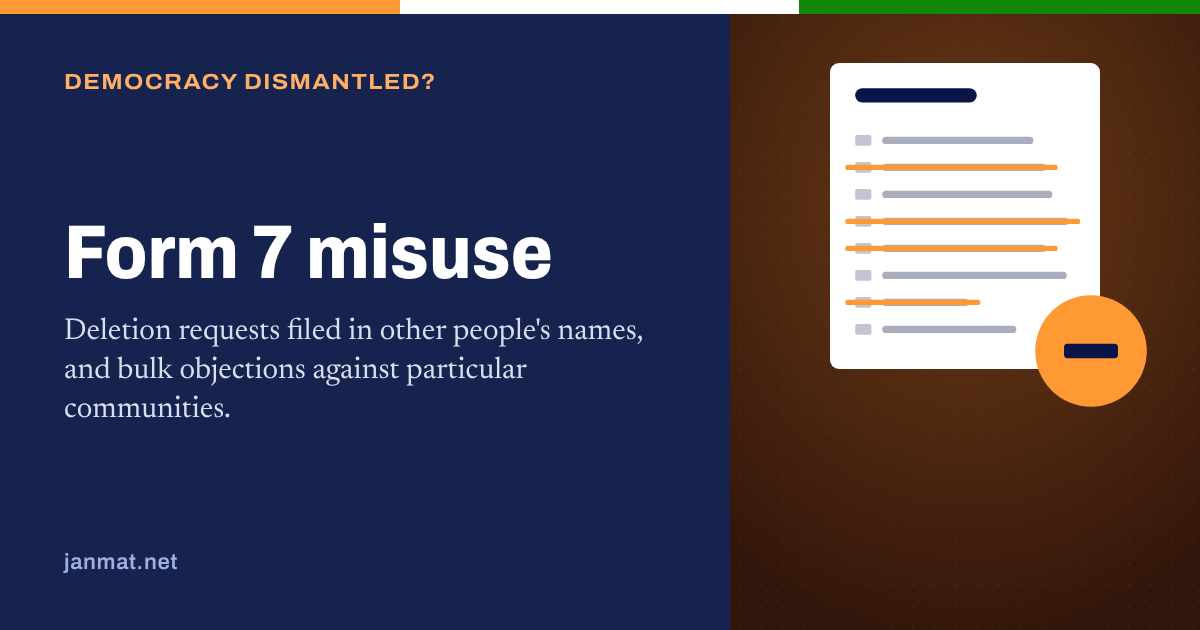
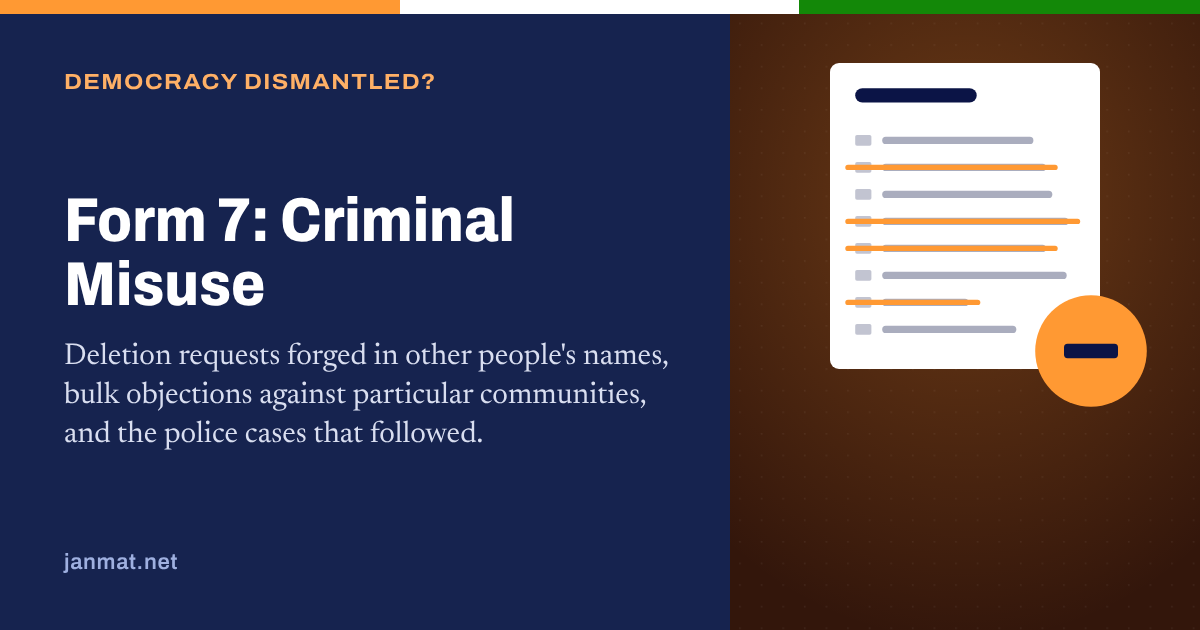
Form 7 page: rename to 'Form 7: Criminal Misuse', add 17 reports
New cases: Bengaluru and Karnataka (FIRs in Jayanagar and Malleshwaram,
CEO action, BJP/JD(S) response), Godda, Jharkhand (BLA arrested),
Rajasthan (Gehlot's pre-filled Form 7 allegation).
Adds reports to Assam, Uttarakhand, Telangana, Gujarat and background.
Card title renamed in 12 languages; new preview image.

Claude-Session: https://claude.ai/code/session_01TnpNPnMkABTeQRySWwLX22

Changed region(s): [[0.0308, 0.5127, 0.555, 0.7238], [0.0308, 0.3016, 0.4625, 0.4825]]

diff --git a/js/form7-data.js b/js/form7-data.js
@@ -36,14 +36,49 @@ window.CASES = [
     ]
   },
   {
+    id: "karnataka-2026",
+    place: "Bengaluru and Karnataka",
+    election: "Special Intensive Revision, October 2026",
+    summary: "About 91,000 Form 7 applications reached Karnataka's election office between mid-June and early October. Chief Minister D.K. Shivakumar led a sit-in at the Chief Electoral Officer's office, alleging BJP and JD(S) workers filed pre-printed forms in bulk, including 3,244 in one day in Bhalki and about 13,000 against Muslim voters in Vijayapura. The CEO told all 224 registration officers to act against false filings and said not one voter had been deleted on a Form 7 objection. In Bengaluru, police registered an FIR over 5,698 Form 7s in Jayanagar naming BJP functionaries, and booked a booth agent over 136 forms with mismatched signatures in Malleshwaram. The BJP and JD(S) said filing objections is a lawful right and asked the Governor to stop the criminal cases.",
+    links: [
+      { title: "BJP asks EC to verify Form-7 applications, accuses K'taka CM of 'pressuring' poll panel", url: "https://theprint.in/india/bjp-asks-ec-to-verify-form-7-applications-accuses-ktaka-cm-of-pressuring-poll-panel/3059635/", outlet: "ThePrint (PTI)", date: "2026-10-01", type: "allegation" },
+      { title: "Karnataka CEO orders action over false Form 7 filings after CM DK Shivakumar's protest", url: "https://www.thenewsminute.com/karnataka/karnataka-ceo-orders-action-over-false-form-7-filings-after-cm-dk-shivakumars-protest", outlet: "The News Minute", date: "2026-10-02", type: "official" },
+      { title: "Not a single Karnataka voter deleted over objections filed via Form 7: Election Commissioner", url: "https://www.theweek.in/news/india/2026/10/05/karnataka-voter-deleted-over-objections-filed-via-form-7-election-commissioner.html", outlet: "The Week", date: "2026-10-05", type: "official" },
+      { title: "Jayanagar Form-7 row: FIR over bid to delete 5,698 voter names", url: "https://www.siasat.com/jayanagar-form-7-row-fir-over-bid-to-delete-5698-voter-names-3553282/", outlet: "Siasat", date: "2026-10-06", type: "police" },
+      { title: "Bengaluru: BLA booked over 136 'forged' Form-7 voter deletion applications", url: "https://www.deccanherald.com/india/karnataka/bengaluru/bengaluru-bla-booked-over-136-forged-form-7-voter-deletion-applications-4172138", outlet: "Deccan Herald", date: "2026-10-06", type: "police" },
+      { title: "NDA delegation urges Karnataka Governor to act against alleged interference in SIR", url: "https://dailypioneer.com/news/nda-karnataka-governor-sir-form-7-objections", outlet: "The Pioneer", date: "2026-10-06", type: "allegation" }
+    ]
+  },
+  {
+    id: "jharkhand",
+    place: "Godda, Jharkhand",
+    election: "Special Intensive Revision, September 2026",
+    summary: "The Indian Express reported that BJP booth agents in Jharkhand had filed Form 7 objections in bulk, mostly against Muslim voters, and that booth officers refused forms with no verifiable source. In Godda, police registered an FIR and arrested a BJP-affiliated booth agent accused of filing about 200 Form 7s, all against minority voters; he was released on bail. The district election officer ordered a probe, and the BJP filed a counter-complaint.",
+    links: [
+      { title: "From BJP office: BLOs refuse to accept bulk Form 7s in Jharkhand", url: "https://www.siasat.com/from-bjp-office-blos-refuse-to-accept-bulk-form-7s-in-jharkhand-3535358/", outlet: "Siasat (citing The Indian Express)", date: "2026-09-03", type: "investigation" },
+      { title: "Bulk voter deletion forms in Jharkhand's Godda trigger probe: what we know", url: "https://www.outlookindia.com/national/jharkhand-sir-probe-ordered-into-bulk-voter-deletion-forms-in-godda", outlet: "Outlook", date: "2026-09-06", type: "official" },
+      { title: "SIR: Jharkhand BLA arrested for allegedly hundreds of Form 7 targeting Muslims", url: "https://www.thequint.com/news/breaking-news/sir-jharkhand-bla-arrested-for-allegedly-hundreds-of-form-7-targeting-muslims", outlet: "The Quint", date: "2026-09-06", type: "police" }
+    ]
+  },
+  {
+    id: "rajasthan",
+    place: "Rajasthan",
+    election: "Special Intensive Revision, January 2026",
+    summary: "Former Chief Minister Ashok Gehlot alleged that, on the last day for claims and objections, officials under pressure from the BJP government pushed booth-level officers to remove Congress-leaning voters and even handed them pre-filled Form 7s, threatening transfers to those who refused. The allegation has not been independently verified.",
+    links: [
+      { title: "BJP manipulating electoral rolls to remove Congress voters: Ex-Rajasthan CM Gehlot", url: "https://www.deccanherald.com/amp/story/india%2Frajasthan%2Fbjp-manipulating-electoral-rolls-to-remove-congress-voters-ex-rajasthan-cm-gehlot-3863647", outlet: "Deccan Herald", date: "2026-01-16", type: "allegation" }
+    ]
+  },
+  {
     id: "assam",
     place: "Assam",
     election: "Special Revision, January 2026",
-    summary: "BJP workers and booth agents told Scroll that their names, phone numbers and voter ID details were used without their knowledge. They said these were used to file bulk objections against hundreds of voters, mostly Muslims. Police complaints were filed and some hearings in Nagaon were suspended. The state election department says a Form 7 does not delete a name by itself. Chief Minister Himanta Biswa Sarma dismissed the Opposition's concerns.",
+    summary: "BJP workers and booth agents told Scroll that their names, phone numbers and voter ID details were used without their knowledge. They said these were used to file bulk objections against hundreds of voters, mostly Muslims. Police complaints were filed and some hearings in Nagaon were suspended. The state election department says a Form 7 does not delete a name by itself. Chief Minister Himanta Biswa Sarma dismissed the Opposition's concerns. In one Sribhumi booth the man named as objector found his own name among the 133 voters objected to, and about 26,000 objections were reported in five Dhubri constituencies. Officials said no name would be deleted without verification.",
     links: [
       { title: "BJP workers in Assam say their names used to seek mass voter deletion – without their knowledge", url: "https://scroll.in/article/1090212/bjp-workers-in-assam-say-their-names-used-to-seek-mass-voter-deletion-without-their-knowledge", outlet: "Scroll", date: "2026-01-24", type: "ground" },
       { title: "Genuine citizens being harassed in Assam Special Revision through Form-7, alleges Opposition: Report", url: "https://m.thewire.in/article/communalism/genuine-citizens-being-harassed-in-assam-special-revision-through-form-7-alleges-opposition-report", outlet: "The Wire", date: "2026-01-25", type: "allegation" },
-      { title: "Special revision in Assam leaves citizens fighting for identity", url: "https://www.etvbharat.com/en/state/special-revision-in-assam-leaves-citizens-fighting-for-identity-enn26012902557", outlet: "ETV Bharat", date: "2026-01-29", type: "ground" }
+      { title: "Special revision in Assam leaves citizens fighting for identity", url: "https://www.etvbharat.com/en/state/special-revision-in-assam-leaves-citizens-fighting-for-identity-enn26012902557", outlet: "ETV Bharat", date: "2026-01-29", type: "ground" },
+      { title: "In Assam, 'forged' forms aimed at deleting thousands of Muslim voters ring alarm bells", url: "https://scroll.in/article/1090187/in-assam-forged-forms-aimed-at-deleting-thousands-of-muslim-voters-ring-alarm-bells", outlet: "Scroll", date: "2026-01-23", type: "investigation" }
     ]
   },
   {
@@ -59,27 +94,30 @@ window.CASES = [
     id: "gujarat",
     place: "Gujarat",
     election: "Special Intensive Revision, 2026",
-    summary: "Petitions in the Gujarat High Court say thousands of Form 7 objections filed during the revision were fake, and seek an SIT probe into the deletions that followed. The court issued notice in May 2026.",
+    summary: "Petitions in the Gujarat High Court say thousands of Form 7 objections filed during the revision were fake, and seek an SIT probe into the deletions that followed. The court issued notice in May 2026. In February the state Congress said 95–99% of Form 7 objections in districts such as Anand, Kheda and Bharuch had been rejected as baseless, and asked who had filed them in bulk.",
     links: [
-      { title: "Petitions seek investigation into thousands of 'fake' objection pleas during SIR, Gujarat High Court issues notice", url: "https://www.deccanherald.com/india/gujarat/petitions-seek-investigation-into-thousands-of-fake-objection-pleas-during-sir-gujarat-high-court-issues-notice-3996966", outlet: "Deccan Herald", date: "2026-05-09", type: "court" }
+      { title: "Petitions seek investigation into thousands of 'fake' objection pleas during SIR, Gujarat High Court issues notice", url: "https://www.deccanherald.com/india/gujarat/petitions-seek-investigation-into-thousands-of-fake-objection-pleas-during-sir-gujarat-high-court-issues-notice-3996966", outlet: "Deccan Herald", date: "2026-05-09", type: "court" },
+      { title: "Gujarat Congress says 95-99 pc of Form-7 objections rejected, flags irregularities in SIR", url: "https://www.thehawk.in/news/india/gujarat-congress-says-95-99-pc-of-form-7-objections-rejected-flags-irregularities-in-sir", outlet: "The Hawk", date: "2026-02-13", type: "allegation" }
     ]
   },
   {
     id: "haridwar",
-    place: "Haridwar, Uttarakhand",
+    place: "Haridwar and Kichha, Uttarakhand",
     election: "Special Intensive Revision, 2026",
-    summary: "In Jhabrera, 35 people, 31 of them BJP booth-level agents, say they never filed the 1,657 objections in their names, most of them against Muslim voters. The local registration officer said the objections were cancelled and no names would be deleted. He also said the Election Commission would not order an investigation. Former Election Commissioner Ashok Lavasa said the authorities should run their own inquiry.",
+    summary: "In Jhabrera, 35 people, 31 of them BJP booth-level agents, say they never filed the 1,657 objections in their names, most of them against Muslim voters. The local registration officer said the objections were cancelled and no names would be deleted. He also said the Election Commission would not order an investigation. Former Election Commissioner Ashok Lavasa said the authorities should run their own inquiry. Across five Uttarakhand constituencies, Newslaundry found five BJP-linked men had filed about 6,500 objections, all against Muslim names; one agent in Kichha filed 4,855. A BJP spokesperson said an objection does not mean automatic deletion.",
     links: [
-      { title: "Uttarakhand SIR: The unsolved mystery of BJP agents' 'forged' objections against Muslim voters", url: "https://www.newslaundry.com/2026/08/28/exclusive-bjp-agents-identities-misused-to-file-mass-objections-against-haridwars-muslim-voters", outlet: "Newslaundry", date: "2026-08-28", type: "investigation" }
+      { title: "Uttarakhand SIR: The unsolved mystery of BJP agents' 'forged' objections against Muslim voters", url: "https://www.newslaundry.com/2026/08/28/exclusive-bjp-agents-identities-misused-to-file-mass-objections-against-haridwars-muslim-voters", outlet: "Newslaundry", date: "2026-08-28", type: "investigation" },
+      { title: "Exclusive: Inside the bulk objections targeting Muslims in Uttarakhand's SIR", url: "https://www.newslaundry.com/2026/08/21/inside-the-bulk-objections-targeting-muslims-in-uttarakhands-sir", outlet: "Newslaundry", date: "2026-08-21", type: "investigation" }
     ]
   },
   {
     id: "telangana",
     place: "Telangana",
     election: "Special Intensive Revision, 2026",
-    summary: "Congress complained that a BJP booth-level agent in Musheerabad filed Form 7 applications against 30 voters, which were found to be false on checking. The state's Chief Electoral Officer ordered action against anyone knowingly filing false statements in Forms 6, 7 or 8. The BJP denied its agents filed such forms.",
+    summary: "Congress complained that a BJP booth-level agent in Musheerabad filed Form 7 applications against 30 voters, which were found to be false on checking. The state's Chief Electoral Officer ordered action against anyone knowingly filing false statements in Forms 6, 7 or 8. The BJP denied its agents filed such forms. In Hyderabad's Goshamahal, Asaduddin Owaisi said a BJP sympathiser submitted pre-printed Form 7s against 122 voters; the booth officer rejected them, and the BJP denied involvement.",
     links: [
-      { title: "T'gana CEO orders action against false voter enrolment", url: "https://theprint.in/india/tgana-ceo-orders-action-against-false-voter-enrolment/3062520/", outlet: "ThePrint (PTI)", date: "2026-10-05", type: "official" }
+      { title: "T'gana CEO orders action against false voter enrolment", url: "https://theprint.in/india/tgana-ceo-orders-action-against-false-voter-enrolment/3062520/", outlet: "ThePrint (PTI)", date: "2026-10-05", type: "official" },
+      { title: "Owaisi alleges submission of Form-7 application against Muslim voters by BJP supporter", url: "https://theprint.in/india/owaisi-alleges-submission-of-form-7-application-against-muslim-voters-by-bjp-supporter/3063295/", outlet: "ThePrint (PTI)", date: "2026-10-06", type: "allegation" }
     ]
   },
   {
@@ -111,10 +149,13 @@ window.CASES = [
     id: "across-states",
     place: "Across states",
     election: "Background",
-    summary: "An October 2026 explainer sets out how bulk Form 7 filings became a flashpoint in several states during the revision. They were filed after the draft rolls came out, so many voters found out only when the final lists were published. On 10 October 2026 the ECI capped Form 7 filings at 10 per elector during a claims period and required verification before any deletion.",
+    summary: "An October 2026 explainer sets out how bulk Form 7 filings became a flashpoint in several states during the revision. They were filed after the draft rolls came out, so many voters found out only when the final lists were published. On 10 October 2026 the ECI capped Form 7 filings at 10 per elector during a claims period and required verification before any deletion. In January 2026 the ECI said there was no limit on the number of Form 7s a voter could file, only a mandatory check above five; Frontline traced how the form went from a routine tool to a political weapon.",
     links: [
       { title: "Election Commission's Forms 6, 7, and 8: How voter list procedures are triggering controversy across India", url: "https://www.onmanorama.com/news/india/2026/10/10/voter-list-election-forms-6-7-8-controversy-explained.html", outlet: "Onmanorama", date: "2026-10-10", type: "explainer" },
-      { title: "Election Commission sets limits on Form 7 applications to curb bulk filing", url: "https://newsonair.gov.in/election-commission-sets-limits-on-form-7-applications-to-curb-bulk-filing/", outlet: "All India Radio", date: "2026-10-10", type: "official" }
+      { title: "Election Commission sets limits on Form 7 applications to curb bulk filing", url: "https://newsonair.gov.in/election-commission-sets-limits-on-form-7-applications-to-curb-bulk-filing/", outlet: "All India Radio", date: "2026-10-10", type: "official" },
+      { title: "Form-7's journey from a civic chore to a political weapon", url: "https://adrindia.org/content/form-seven-voter-deletion-india-election-commission-bjp", outlet: "Frontline (via ADR)", date: "2026-02-02", type: "explainer" },
+      { title: "ECI issues clarification on Form-7 procedure", url: "https://www.newsonair.gov.in/eci-issues-clarification-on-form-7-procedure-amid-tmc-bjp-controversy", outlet: "All India Radio", date: "2026-01-17", type: "official" },
+      { title: "After facing flak over bulk Form 7s being filed to seek voter deletions, ECI sets limit of 10 applications for one person", url: "https://thewire.in/government/eci-sets-limit-of-10-form-7-applications-for-one-person", outlet: "The Wire", date: "2026-10-10", type: "official" }
     ]
   }
 ];

diff --git a/form-7.html b/form-7.html
@@ -3,21 +3,21 @@
 <head>
   <meta charset="utf-8">
   <meta name="viewport" content="width=device-width, initial-scale=1">
-  <title>Form 7 Misuse | Democracy Dismantled?</title>
+  <title>Form 7: Criminal Misuse | Democracy Dismantled?</title>
   <meta name="description" content="News reports on misuse of Form 7, the application to object to or delete a name on India's electoral roll, case by case, with official responses.">
   <link rel="canonical" href="https://janmat.net/form-7">
   <meta property="og:type" content="website">
   <meta property="og:site_name" content="Democracy Dismantled?">
   <meta property="og:locale" content="en_IN">
-  <meta property="og:title" content="Form 7 Misuse | Democracy Dismantled?">
+  <meta property="og:title" content="Form 7: Criminal Misuse | Democracy Dismantled?">
   <meta property="og:description" content="News reports on misuse of Form 7, the application to object to or delete a name on India's electoral roll, case by case, with official responses.">
   <meta property="og:url" content="https://janmat.net/form-7">
   <meta property="og:image" content="https://janmat.net/images/og/form-7.png">
   <meta property="og:image:width" content="1200">
   <meta property="og:image:height" content="630">
-  <meta property="og:image:alt" content="Form 7 Misuse | Democracy Dismantled?">
+  <meta property="og:image:alt" content="Form 7: Criminal Misuse | Democracy Dismantled?">
   <meta name="twitter:card" content="summary_large_image">
-  <meta name="twitter:title" content="Form 7 Misuse | Democracy Dismantled?">
+  <meta name="twitter:title" content="Form 7: Criminal Misuse | Democracy Dismantled?">
   <meta name="twitter:description" content="News reports on misuse of Form 7, the application to object to or delete a name on India's electoral roll, case by case, with official responses.">
   <meta name="twitter:image" content="https://janmat.net/images/og/form-7.png">
   <link rel="preconnect" href="https://fonts.googleapis.com">
@@ -45,7 +45,7 @@
 
   <main id="top">
     <section class="hero hero-sub" aria-labelledby="hero-title">
-      <h1 id="hero-title">Form 7 misuse</h1>
+      <h1 id="hero-title">Form 7: Criminal Misuse</h1>
       <div class="hero-text">
         <p class="hero-dek">Form 7 is the application to object to a name on the electoral roll or have it deleted. These reports cover deletion requests filed in other people's names, bulk objections against particular communities, and the police cases that followed. Each case includes the official response where one was reported.</p>
         <p class="hero-count"><strong id="count-links">0</strong> reports across <strong id="count-cases">0</strong> cases</p>

diff --git a/js/topics-data.js b/js/topics-data.js
@@ -160,12 +160,12 @@ window.TOPICS = [
   {
     id: "form-7", href: "form-7.html", image: "images/topics/form-7.svg", tint: "#33160b",
     title: {
-      en: "Form 7 misuse", hi: "फ़ॉर्म 7 का दुरुपयोग", bn: "ফর্ম ৭-এর অপব্যবহার", mr: "फॉर्म ७ चा गैरवापर",
-      ta: "படிவம் 7 முறைகேடு", te: "ఫారం 7 దుర్వినియోగం", gu: "ફોર્મ 7નો દુરુપયોગ", kn: "ಫಾರ್ಮ್ 7 ದುರ್ಬಳಕೆ",
-      ml: "ഫോം 7 ദുരുപയോഗം", pa: "ਫ਼ਾਰਮ 7 ਦੀ ਦੁਰਵਰਤੋਂ", or: "ଫର୍ମ 7ର ଅପବ୍ୟବହାର", ur: "فارم 7 کا غلط استعمال"
+      en: "Form 7: Criminal Misuse", hi: "फ़ॉर्म 7: आपराधिक दुरुपयोग", bn: "ফর্ম ৭: অপরাধমূলক অপব্যবহার", mr: "फॉर्म ७: गुन्हेगारी गैरवापर",
+      ta: "படிவம் 7: குற்றவியல் முறைகேடு", te: "ఫారం 7: నేరపూరిత దుర్వినియోగం", gu: "ફોર્મ 7: ગુનાહિત દુરુપયોગ", kn: "ಫಾರ್ಮ್ 7: ಅಪರಾಧಿಕ ದುರ್ಬಳಕೆ",
+      ml: "ഫോം 7: ക്രിമിനൽ ദുരുപയോഗം", pa: "ਫ਼ਾਰਮ 7: ਅਪਰਾਧਿਕ ਦੁਰਵਰਤੋਂ", or: "ଫର୍ମ 7: ଅପରାଧିକ ଅପବ୍ୟବହାର", ur: "فارم 7: مجرمانہ غلط استعمال"
     },
     text: {
-      en: "Deletion requests filed in other people's names, and bulk objections against particular communities.",
+      en: "Deletion requests forged in other people's names, bulk objections against particular communities, and the police cases that followed.",
       hi: "दूसरों के नाम पर दायर नाम हटाने के आवेदन, और ख़ास समुदायों के ख़िलाफ़ थोक आपत्तियाँ।",
       bn: "অন্যের নামে জমা পড়া নাম বাদের আবেদন, এবং নির্দিষ্ট সম্প্রদায়ের বিরুদ্ধে গণ-আপত্তি।",
       mr: "इतरांच्या नावाने केलेले नाव वगळण्याचे अर्ज, आणि विशिष्ट समुदायांविरुद्ध घाऊक आक्षेप.",
